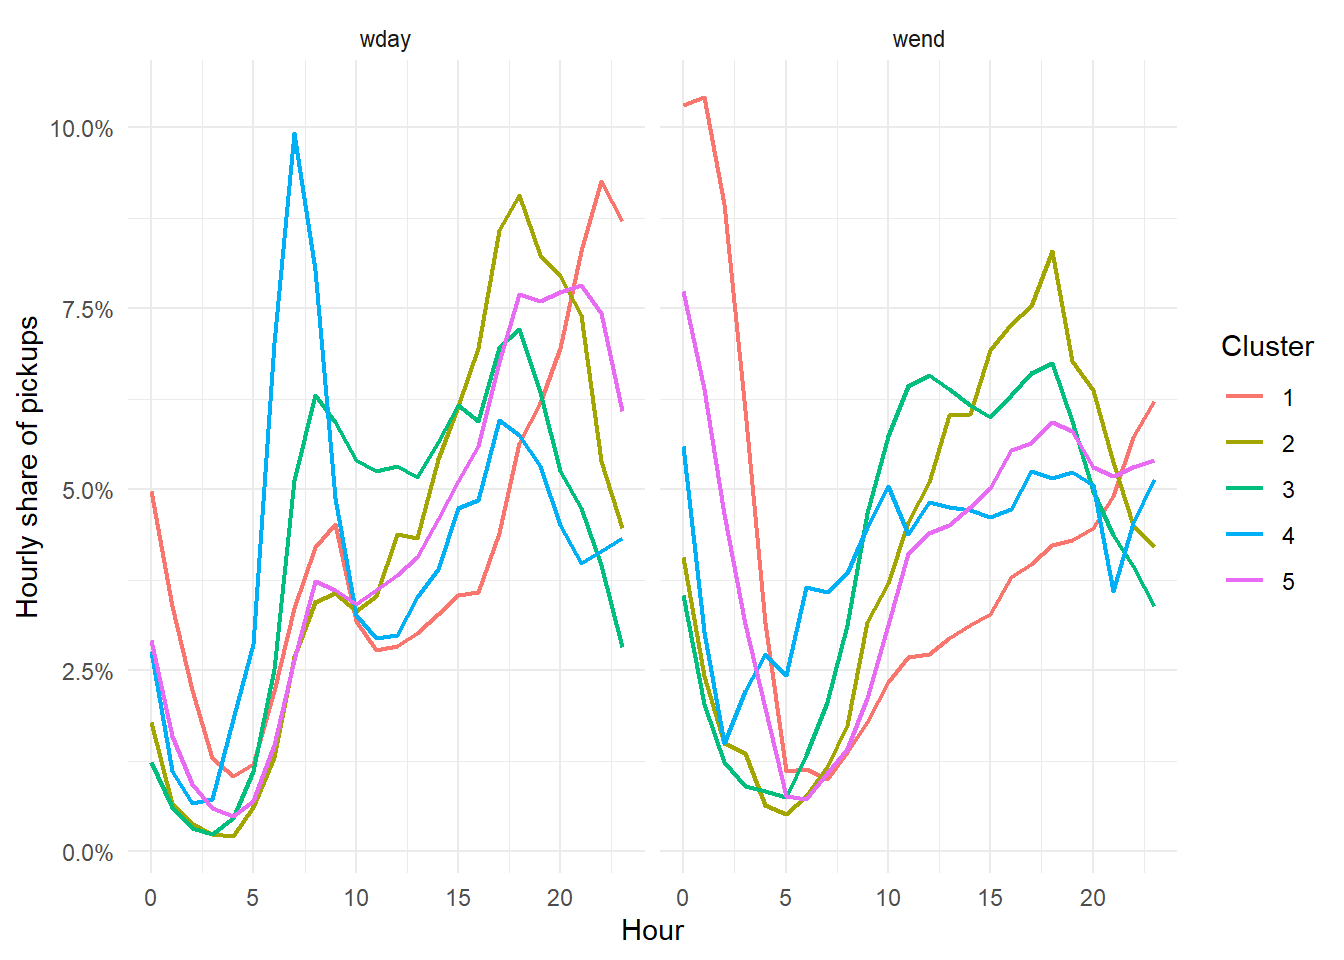
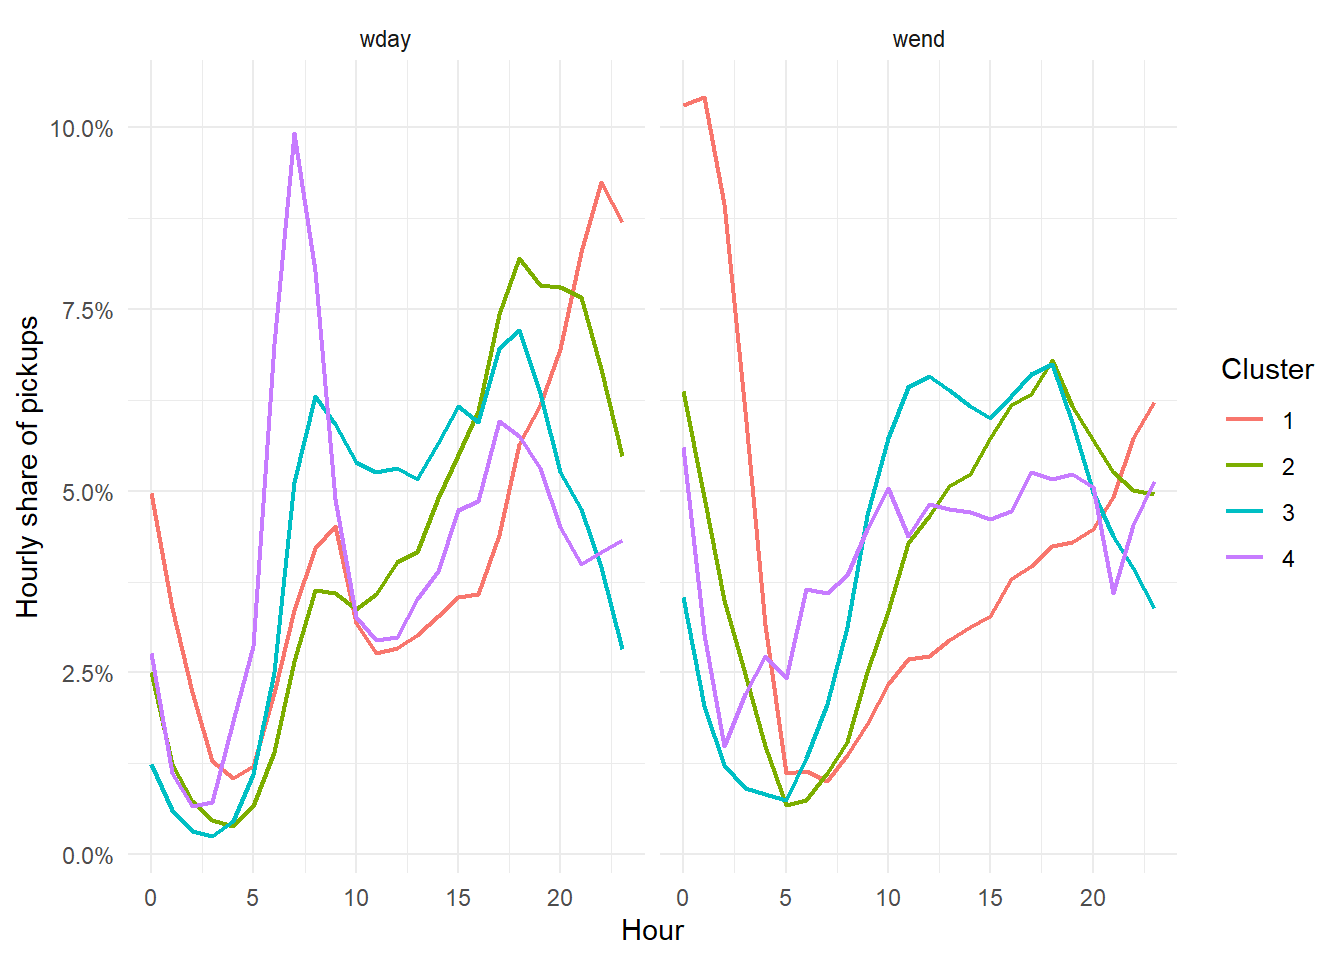
seed

diff --git a/docs/labs/lab9.html b/docs/labs/lab9.html
@@ -6,7 +6,7 @@
 
 <meta name="viewport" content="width=device-width, initial-scale=1.0, user-scalable=yes">
 
-<meta name="dcterms.date" content="2026-11-20">
+<meta name="dcterms.date" content="2026-11-22">
 
 <title>Cluster Places by Characteristics and Use in  – Applied Data Science for Cities</title>
 <style>
@@ -192,7 +192,7 @@ pre > code.sourceCode > span > a:first-child::before { text-decoration: underlin
     <div>
     <div class="quarto-title-meta-heading">Published</div>
     <div class="quarto-title-meta-contents">
-      <p class="date">November 20, 2026</p>
+      <p class="date">November 22, 2026</p>
     </div>
   </div>
   
@@ -521,14 +521,15 @@ pre > code.sourceCode > span > a:first-child::before { text-decoration: underlin
 <div class="cell">
 <div class="sourceCode cell-code" id="cb20"><pre class="sourceCode r code-with-copy"><code class="sourceCode r"><span id="cb20-1"><a href="#cb20-1" aria-hidden="true" tabindex="-1"></a>trips_dist <span class="ot">&lt;-</span> <span class="fu">dist</span>(trips_scale)</span></code><button title="Copy to Clipboard" class="code-copy-button"><i class="bi"></i></button></pre></div>
 </div>
-<p>Then we choose a <strong>linkage method</strong>, which defines how to measure the distance between two <em>clusters</em> that each have several members. Common options are <code>"complete"</code> (compare the two farthest members), <code>"average"</code>, and <code>"ward.D2"</code> (merge the pair of clusters that increases the within-cluster variance the least, which often behaves like k-means). We use <code>"ward.D2"</code> because it produces more compact clusters.</p>
+<p>Then we choose a <strong>linkage method</strong>, which defines how to measure the distance between two <em>clusters</em> that each have several members. Common options are <code>"complete"</code> (compare the two farthest members), <code>"average"</code>, and <code>"ward.D2"</code> (merge the pair of clusters that increases the within-cluster variance the least, which often behaves like k-means). Feel free to try each. We can take a look at what <code>"ward.D2"</code> produces. It generally produces more compact clusters.</p>
 <div class="cell">
-<div class="sourceCode cell-code" id="cb21"><pre class="sourceCode r code-with-copy"><code class="sourceCode r"><span id="cb21-1"><a href="#cb21-1" aria-hidden="true" tabindex="-1"></a>hc.out <span class="ot">&lt;-</span> <span class="fu">hclust</span>(trips_dist, <span class="at">method =</span> <span class="st">"ward.D2"</span>)</span></code><button title="Copy to Clipboard" class="code-copy-button"><i class="bi"></i></button></pre></div>
+<div class="sourceCode cell-code" id="cb21"><pre class="sourceCode r code-with-copy"><code class="sourceCode r"><span id="cb21-1"><a href="#cb21-1" aria-hidden="true" tabindex="-1"></a><span class="fu">set.seed</span>(<span class="dv">24</span>)</span>
+<span id="cb21-2"><a href="#cb21-2" aria-hidden="true" tabindex="-1"></a>hc.out <span class="ot">&lt;-</span> <span class="fu">hclust</span>(trips_dist, <span class="at">method =</span> <span class="st">"ward.D2"</span>)</span></code><button title="Copy to Clipboard" class="code-copy-button"><i class="bi"></i></button></pre></div>
 </div>
-<p>Here we have our clustering result. In a dendrogram, branches merge at different y-axis heights. A long vertical gap before a merge suggests a natural place to cut. To cut it, draw a horizontal line across the plot: each branch it crosses is one cluster. Here we cut at <em>k</em> = 5, and <code>rect.hclust()</code> draws boxes around the clusters you get.</p>
+<p>Here we have our clustering result. In a dendrogram, branches merge at different y-axis heights. A long vertical gap before a merge suggests a natural place to cut. To cut it, draw a horizontal line across the plot: each branch it crosses is one cluster. If we cut it at <em>k</em> = 4, and <code>rect.hclust()</code> draws boxes around the clusters you get.</p>
 <div class="cell">
 <div class="sourceCode cell-code" id="cb22"><pre class="sourceCode r code-with-copy"><code class="sourceCode r"><span id="cb22-1"><a href="#cb22-1" aria-hidden="true" tabindex="-1"></a><span class="fu">plot</span>(hc.out, <span class="at">cex =</span> <span class="fl">0.7</span>, <span class="at">hang =</span> <span class="sc">-</span><span class="dv">1</span>)</span>
-<span id="cb22-2"><a href="#cb22-2" aria-hidden="true" tabindex="-1"></a><span class="fu">rect.hclust</span>(hc.out, <span class="at">k =</span> <span class="dv">5</span>)</span></code><button title="Copy to Clipboard" class="code-copy-button"><i class="bi"></i></button></pre></div>
+<span id="cb22-2"><a href="#cb22-2" aria-hidden="true" tabindex="-1"></a><span class="fu">rect.hclust</span>(hc.out, <span class="at">k =</span> <span class="dv">4</span>)</span></code><button title="Copy to Clipboard" class="code-copy-button"><i class="bi"></i></button></pre></div>
 <div class="cell-output-display">
 <div>
 <figure class="figure">
@@ -537,18 +538,18 @@ pre > code.sourceCode > span > a:first-child::before { text-decoration: underlin
 </div>
 </div>
 </div>
-<p>Because we used the zone names as row names, each leaf is labeled with its zone. Zones that merge near the bottom have very similar daily patterns, such as neighbors like the two Financial District zones. We can see Marble Hill and Randalls Island form their own small cluster, because they have almost no pickups (mostly 0 in a lot of hours). The totals are small, so their shares are noisy.</p>
+<p>Because we used the zone names as row names, each leaf is labeled with its zone. Zones that merge near the bottom have very similar daily patterns, such as neighbors like the two Financial District zones.</p>
 <p>The <code>cutree()</code> function returns the cluster number of each zone for a given <em>k</em>:</p>
 <div class="cell">
-<div class="sourceCode cell-code" id="cb23"><pre class="sourceCode r code-with-copy"><code class="sourceCode r"><span id="cb23-1"><a href="#cb23-1" aria-hidden="true" tabindex="-1"></a>hc_cluster <span class="ot">&lt;-</span> <span class="fu">cutree</span>(hc.out, <span class="at">k =</span> <span class="dv">5</span>)</span>
+<div class="sourceCode cell-code" id="cb23"><pre class="sourceCode r code-with-copy"><code class="sourceCode r"><span id="cb23-1"><a href="#cb23-1" aria-hidden="true" tabindex="-1"></a>hc_cluster <span class="ot">&lt;-</span> <span class="fu">cutree</span>(hc.out, <span class="at">k =</span> <span class="dv">4</span>)</span>
 <span id="cb23-2"><a href="#cb23-2" aria-hidden="true" tabindex="-1"></a>hc_cluster <span class="sc">|&gt;</span> <span class="fu">head</span>(<span class="dv">10</span>)</span></code><button title="Copy to Clipboard" class="code-copy-button"><i class="bi"></i></button></pre></div>
 <div class="cell-output cell-output-stdout">
 <pre><code>       Alphabet City    Battery Park City         Bloomingdale 
                    1                    2                    3 
       Central Harlem Central Harlem North            Chinatown 
-                   4                    4                    5 
+                   4                    4                    2 
         Clinton East         Clinton West         East Chelsea 
-                   1                    3                    5 
+                   1                    3                    2 
    East Harlem North 
                    4 </code></pre>
 </div>
@@ -583,12 +584,11 @@ pre > code.sourceCode > span > a:first-child::before { text-decoration: underlin
 </div>
 </div>
 </div>
-<p>Clusters 3 and 2 show weekday peaks, especially in the early morning for Cluster 3, but peak patterns for both disappear on weekends. Cluster 1 has a particularly strong late-night weekend activity, likely linked to bars and restaurants.</p>
-<p>Cluster 5 is the two-zone cluster containing Marble Hill and Randalls Island. Both have low pickups and shares are unstable (small-number instability), so their pattern should not be over-interpreted.</p>
+<p>Clusters 2 and 4 show weekday peaks, especially in the early morning for Cluster 4, but peak patterns for both disappear on weekends. Cluster 1 has a particularly strong late-night weekend activity, likely linked to bars and restaurants.</p>
 </section>
 <section id="name-the-clusters-1" class="level2">
 <h2 class="anchored" data-anchor-id="name-the-clusters-1">Name the clusters</h2>
-<p>Reading the curves, the 5 groups can be roughly grouped to:</p>
+<p>Reading the curves, the 4 groups can be roughly grouped to:</p>
 <table class="caption-top table">
 <colgroup>
 <col style="width: 25%">
@@ -610,38 +610,32 @@ pre > code.sourceCode > span > a:first-child::before { text-decoration: underlin
 </tr>
 <tr class="even">
 <td>2</td>
-<td>Weekday peak around 6pm, a flat day on weekends</td>
-<td>Residential and midtown, evening peak</td>
+<td>Weekday and weekend peak around 6 to 8pm</td>
+<td>Commercial and midtown, evening peak</td>
 </tr>
 <tr class="odd">
 <td>3</td>
-<td>Sharp peak at 7 to 8am on weekdays</td>
-<td>Uptown, morning commute</td>
+<td>Activity stays high through day on both weekdays and weekends</td>
+<td>Downtown, all-day and evening</td>
 </tr>
 <tr class="even">
 <td>4</td>
-<td>Activity stays high through the evening on both weekdays and weekends</td>
-<td>Downtown, all-day and evening</td>
-</tr>
-<tr class="odd">
-<td>5</td>
-<td>Almost no pickups (unstable shares)</td>
-<td>Low-volume zones</td>
+<td>Sharp peak at 7 to 8am on weekdays</td>
+<td>Uptown residential, morning commute</td>
 </tr>
 </tbody>
 </table>
 <p>Like before, we attach the names to the cluster numbers, and then get the zone IDs back from <code>zones</code> so that we can join to the map.</p>
 <div class="cell">
 <div class="sourceCode cell-code" id="cb26"><pre class="sourceCode r code-with-copy"><code class="sourceCode r"><span id="cb26-1"><a href="#cb26-1" aria-hidden="true" tabindex="-1"></a>hc_names <span class="ot">&lt;-</span> <span class="fu">c</span>(<span class="st">"Downtown nightlife"</span>,</span>
-<span id="cb26-2"><a href="#cb26-2" aria-hidden="true" tabindex="-1"></a>              <span class="st">"Residential and midtown, evening peak"</span>,</span>
-<span id="cb26-3"><a href="#cb26-3" aria-hidden="true" tabindex="-1"></a>              <span class="st">"Uptown, morning commute"</span>,</span>
-<span id="cb26-4"><a href="#cb26-4" aria-hidden="true" tabindex="-1"></a>              <span class="st">"Downtown, all-day and evening"</span>,</span>
-<span id="cb26-5"><a href="#cb26-5" aria-hidden="true" tabindex="-1"></a>              <span class="st">"Low-volume zones (noisy pattern)"</span>)</span>
-<span id="cb26-6"><a href="#cb26-6" aria-hidden="true" tabindex="-1"></a></span>
-<span id="cb26-7"><a href="#cb26-7" aria-hidden="true" tabindex="-1"></a>hc_table <span class="ot">&lt;-</span> <span class="fu">tibble</span>(<span class="at">zone =</span> <span class="fu">names</span>(hc_cluster),</span>
-<span id="cb26-8"><a href="#cb26-8" aria-hidden="true" tabindex="-1"></a>                   <span class="at">Cluster =</span> <span class="fu">factor</span>(hc_cluster),</span>
-<span id="cb26-9"><a href="#cb26-9" aria-hidden="true" tabindex="-1"></a>                   <span class="at">Type =</span> <span class="fu">factor</span>(hc_cluster, <span class="at">labels =</span> hc_names)) <span class="sc">|&gt;</span></span>
-<span id="cb26-10"><a href="#cb26-10" aria-hidden="true" tabindex="-1"></a>  <span class="fu">left_join</span>(<span class="fu">select</span>(zones, LocationID, zone), <span class="at">by =</span> <span class="st">"zone"</span>)</span></code><button title="Copy to Clipboard" class="code-copy-button"><i class="bi"></i></button></pre></div>
+<span id="cb26-2"><a href="#cb26-2" aria-hidden="true" tabindex="-1"></a>              <span class="st">"Commercial and midtown, evening peak"</span>,</span>
+<span id="cb26-3"><a href="#cb26-3" aria-hidden="true" tabindex="-1"></a>              <span class="st">"Downtown, all-day and evening"</span>,</span>
+<span id="cb26-4"><a href="#cb26-4" aria-hidden="true" tabindex="-1"></a>              <span class="st">"Uptown, morning commute"</span>)</span>
+<span id="cb26-5"><a href="#cb26-5" aria-hidden="true" tabindex="-1"></a></span>
+<span id="cb26-6"><a href="#cb26-6" aria-hidden="true" tabindex="-1"></a>hc_table <span class="ot">&lt;-</span> <span class="fu">tibble</span>(<span class="at">zone =</span> <span class="fu">names</span>(hc_cluster),</span>
+<span id="cb26-7"><a href="#cb26-7" aria-hidden="true" tabindex="-1"></a>                   <span class="at">Cluster =</span> <span class="fu">factor</span>(hc_cluster),</span>
+<span id="cb26-8"><a href="#cb26-8" aria-hidden="true" tabindex="-1"></a>                   <span class="at">Type =</span> <span class="fu">factor</span>(hc_cluster, <span class="at">labels =</span> hc_names)) <span class="sc">|&gt;</span></span>
+<span id="cb26-9"><a href="#cb26-9" aria-hidden="true" tabindex="-1"></a>  <span class="fu">left_join</span>(<span class="fu">select</span>(zones, LocationID, zone), <span class="at">by =</span> <span class="st">"zone"</span>)</span></code><button title="Copy to Clipboard" class="code-copy-button"><i class="bi"></i></button></pre></div>
 </div>
 </section>
 <section id="map-the-clusters-1" class="level2">
@@ -671,8 +665,8 @@ pre > code.sourceCode > span > a:first-child::before { text-decoration: underlin
 <p>We clustered the same zones twice with two different lenses. The first tells us what kind of place a zone is, and the second tells us how taxi pickups happen there. By looking at both, we can get a better idea of what’s going on in each zone. The groups don’t have to match, but where they agree, the kind of place helps explain the rhythm of pickups. Where they disagree, something else is at play, which could be something worth digging into.</p>
 <p>K-means and hierarchical clustering are two ways to run the same workflow, and they have different strengths:</p>
 <ul>
-<li><strong>K-means</strong> assigns each point to its nearest center. It is simple and fast, and it works with thousands of rows, but you have to choose <em>k</em> in advance, and it assumes roughly round clusters in the data space.</li>
-<li><strong>Hierarchical clustering</strong> gives you a whole tree, so you can see which zones are most alike and decide later where to cut. But it needs all pairwise distances, so it gets slow and memory-heavy past a few hundred rows.</li>
+<li><strong>K-means</strong> assigns each point to its nearest center. It is simple and fast, and it works with thousands of rows. It assumes roughly round clusters in the data space.</li>
+<li><strong>Hierarchical clustering</strong> gives you a whole tree, so you can see which zones are most alike and decide later where to cut. But it gets slow and memory-heavy past a few hundred rows, because it needs all pairwise distances.</li>
 </ul>
 <p>There is also no strict criterion that says one clustering is “right”. Clustering is exploratory: the results are a tool to help you describe places. What matters is that you can say what each group means, and that the meaning makes sense when you look back at the map.</p>
 </section>
